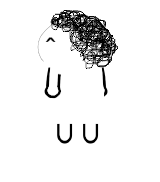
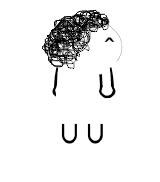
make funky naito right facing

Changed region(s): [[0.2188, 0.0549, 0.7812, 0.5495], [0.3438, 0.6593, 0.6562, 0.7967]]

diff --git a/static/scripts/character.js b/static/scripts/character.js
@@ -45,7 +45,7 @@ export class Character
 export const characters = {
     giko: new Character("giko", "svg", false),
     naito: new Character("naito", "svg", false),
-    funkynaito: new Character("funkynaito", "png", true),
+    funkynaito: new Character("funkynaito", "png", false),
     furoshiki: new Character("furoshiki", "svg", false),
     naitoapple: new Character("naitoapple", "svg", false),
     hikki: new Character("hikki", "svg", false),
